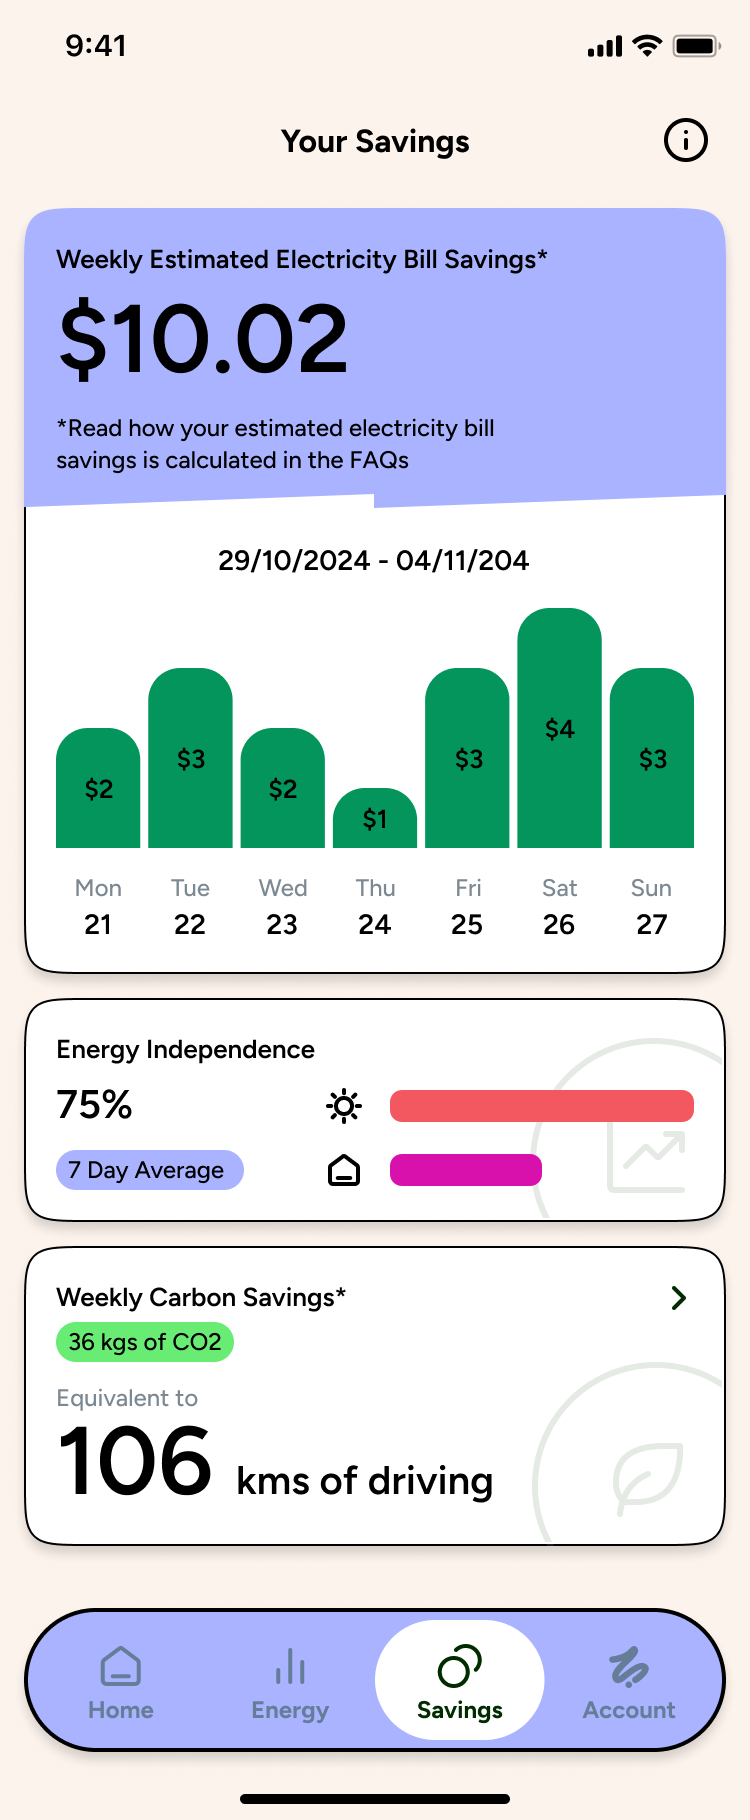
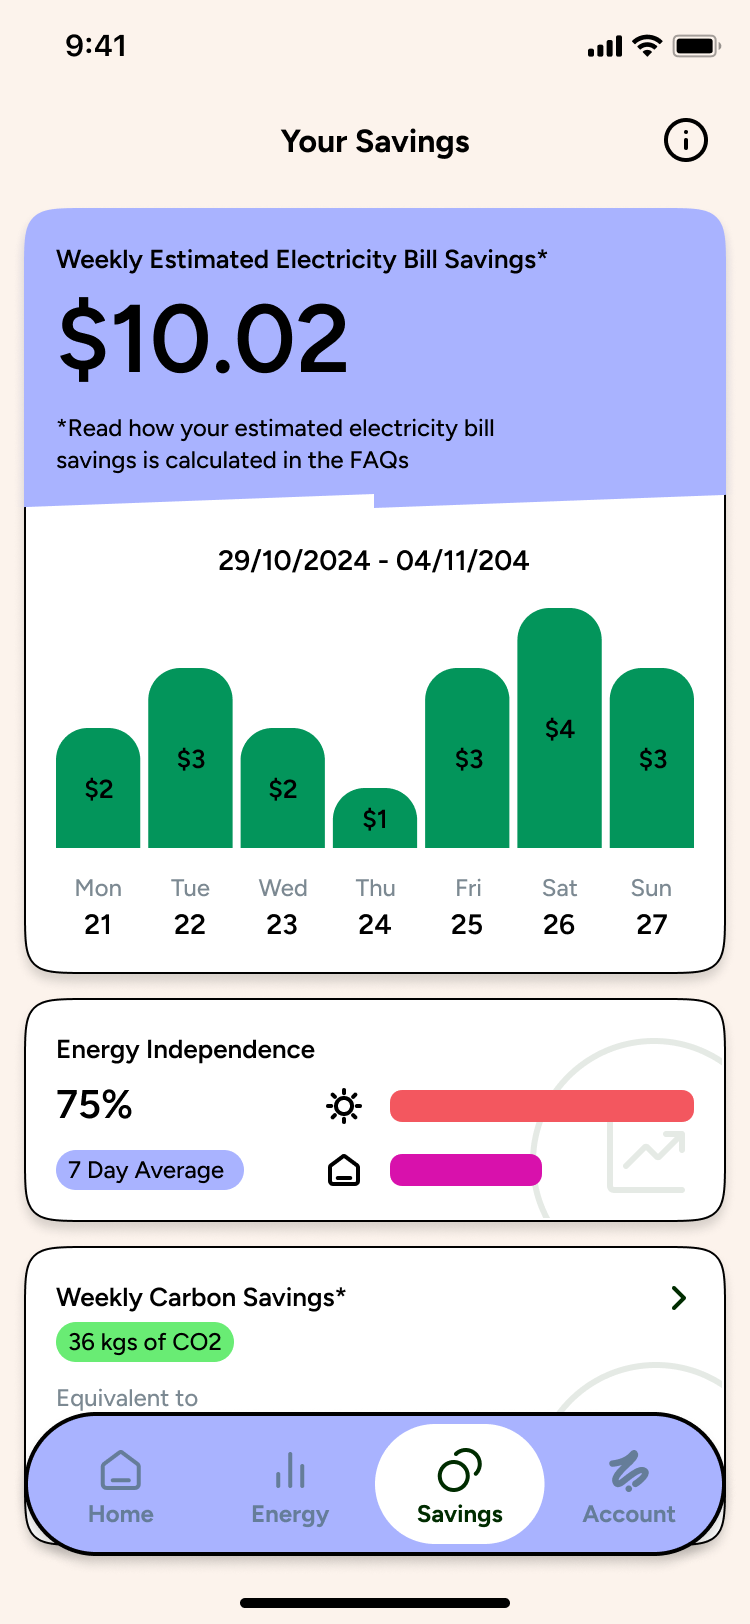
Remove intro strip, reduce em dashes across case studies
Removed the "still being designed" intro strip from the homepage.
Cleaned up em dashes across zelora-enreal, pooled, and discord case studies.

Changed region(s): [[0.0307, 0.0, 0.9813, 1.0], [0.092, 0.0, 0.1533, 0.0308], [0.7973, 0.0308, 0.828, 0.0616]]

diff --git a/pooled.html b/pooled.html
@@ -224,8 +224,8 @@
       <div id="overview" class="case-section reveal">
         <div class="case-section-label">Overview</div>
         <h2>Making pool safety legible for a Saturday morning check-in</h2>
-        <p>Pooled by Poolwerx is a smart pool management app for residential pool owners. It gives them real-time visibility into water chemistry, equipment status, and pool health — and lets them take action without picking up the phone.</p>
-        <p>The existing app was engineering-first — built for installers, not owners — and had aged. Working with Evergen's engineering team, I led research, UX, and visual design across the full product: the consumer app, the scheduling and automation flows, and a fleet management dashboard for Poolwerx operators.</p>
+        <p>Pooled by Poolwerx is a smart pool management app for residential pool owners. It gives them real-time visibility into water chemistry, equipment status, and pool health, and lets them take action without picking up the phone.</p>
+        <p>The existing app was engineering-first, built for installers rather than owners, and had aged. Working with Evergen's engineering team, I led research, UX, and visual design across the full product: the consumer app, the scheduling and automation flows, and a fleet management dashboard for Poolwerx operators.</p>
         <p>The design brief came down to a single user: a pool owner who opens the app on a Thursday, wants to know if the pool will be ready for the weekend, and shouldn't need to decode a technical dashboard to find out.</p>
         <div class="figure-row-3">
           <figure>
@@ -263,7 +263,7 @@
 
         <h3>Tolerances built around each pool, not a generic standard</h3>
         <p>Pool chemistry isn't universal. What's an acceptable pH in one pool may be out of range for another, depending on equipment, pool size, water type, and local conditions. Rather than showing static thresholds, the Water tab uses coloured range bars to show where each reading sits within the tolerance band set for that specific pool.</p>
-        <p>This required the backend to surface per-pool tolerances rather than raw sensor values — a more technically complex approach — but the right one. Telling a pool owner their pH is 7.2 means nothing without context. Showing them that 7.2 sits comfortably within their pool's acceptable range gives them the actual answer they came for.</p>
+        <p>This required the backend to surface per-pool tolerances rather than raw sensor values. More technically complex, but the right call. Telling a pool owner their pH is 7.2 means nothing without context. Showing them that 7.2 sits comfortably within their pool's acceptable range gives them the actual answer they came for.</p>
         <div class="figure-row">
           <figure>
             <img src="images/projects/pooledwater.png" alt="Water tab showing pH, ORP, Salinity and Temperature with coloured tolerance range bars" loading="lazy">
@@ -307,7 +307,7 @@
         <div class="case-section-label">The Dashboard</div>
         <h2>A completely different interface for a completely different user</h2>
         <p>Alongside the consumer app, I designed a fleet management dashboard for Poolwerx's operations team. While pool owners see one pool, operators manage hundreds — tracking water chemistry across multiple sites, identifying pools that need attention, and reviewing chemical history for individual accounts.</p>
-        <p>The contrast between the two interfaces was deliberate. The consumer app leads with urgency and simplicity because pool owners check in quickly and want a fast answer. The operator dashboard leads with data density and overview because technicians need to triage across a fleet, not find a single yes-or-no status. The same design approach — surface what matters first — plays out differently depending on who "matters" is for.</p>
+        <p>The contrast between the two interfaces was deliberate. The consumer app leads with urgency and simplicity because pool owners check in quickly and want a fast answer. The operator dashboard leads with data density and overview because technicians need to triage across a fleet, not find a single yes-or-no status. The same principle applies: surface what matters first. It just looks different depending on who the user is.</p>
         <div class="figure-row">
           <figure>
             <img src="images/projects/pooleddashboard.png" alt="Poolwerx operator fleet dashboard showing 250 pools, pH chart, health tracker and pool listings" loading="lazy">

diff --git a/discord-ios-widget.html b/discord-ios-widget.html
@@ -216,7 +216,7 @@
       <div id="overview" class="case-section reveal">
         <div class="case-section-label">Overview</div>
         <h2>Designing a widget that could have come from Discord's own team</h2>
-        <p>Discord had over 150 million monthly active users and no iOS widget. This was a personal project, built after leaving Creativemass — I've used Discord for years and genuinely love the product. The goal wasn't just to design a widget; it was to design one that could plausibly have come from Discord's own team. That was the hardest constraint: believability.</p>
+        <p>Discord had over 150 million monthly active users and no iOS widget. This was a personal project, built after leaving Creativemass. I've used Discord for years and genuinely love the product. The goal wasn't just to design a widget; it was to design one that could plausibly have come from Discord's own team. That was the hardest constraint: believability.</p>
         <figure>
           <img src="images/projects/discord-research.png" alt="Discord widget information architecture and feature research" loading="lazy">
           <figcaption>Information architecture and feature research</figcaption>
@@ -251,7 +251,7 @@
       <div id="outcome" class="case-section reveal">
         <div class="case-section-label">Outcome</div>
         <h2>Handover-ready, with room to grow</h2>
-        <p>The final designs are annotated and templated — the variation system is straightforward for engineers to build on. If I were to revisit this now, I'd push the personality further. Discord has evolved with custom themes, profile banners, and more visual expression since I built this. There's room for a widget that's genuinely expressive, not just functional.</p>
+        <p>The final designs are annotated and templated; the variation system is straightforward for engineers to build on. If I were to revisit this now, I'd push the personality further. Discord has evolved with custom themes, profile banners, and more visual expression since I built this. There's room for a widget that's genuinely expressive, not just functional.</p>
         <figure>
           <img src="images/projects/discord-final.png" alt="Discord widget final annotated designs" loading="lazy">
           <figcaption>Final designs — annotated and ready for handover</figcaption>

diff --git a/zelora-enreal.html b/zelora-enreal.html
@@ -203,7 +203,7 @@
           </div>
         </div>
         <h1 class="case-title">Zelora &amp; Enreal</h1>
-        <p class="case-tagline">Designing a consumer energy app — and the white-label system behind it — for two brands and thousands of solar and battery owners.</p>
+        <p class="case-tagline">Designing a consumer energy app and the white-label system behind it, for two brands and thousands of solar and battery owners.</p>
       </div>
       <div class="case-hero-image">
         <img src="images/projects/enrealzeloraheroshot.png" alt="Zelora and Enreal app screens showing home energy dashboard">
@@ -333,7 +333,7 @@
         <div class="case-section-label">Web Portal</div>
         <h2>A desktop companion built for longer sessions</h2>
         <p>The web portal was designed for the same users as the app, but in a desktop context where more screen real estate and a longer session changes how energy data should be presented. The dashboard surfaces historical charts, seven-day energy views, and detailed breakdowns — content that exists on mobile but is significantly more useful when a user can see it at full width across multiple panels simultaneously.</p>
-        <p>The telemetry charts in the portal are intentionally more detailed than the mobile equivalents. Desktop users who choose to open the portal are signalling a different intent to someone doing a quick home screen check — the interface reflects that. The portal launched alongside the mobile app, giving users access to both from day one.</p>
+        <p>The telemetry charts in the portal are intentionally more detailed than the mobile equivalents. Desktop users who choose to open the portal are signalling a different intent to someone doing a quick home screen check. The interface reflects that. The portal launched alongside the mobile app, giving users access to both from day one.</p>
         <div class="figure-row">
           <figure>
             <img src="images/projects/enrealweb-home.png" alt="Enreal web portal home dashboard showing energy overview" loading="lazy">

diff --git a/index.html b/index.html
@@ -608,15 +608,6 @@
     </div>
   </div>
 
-  <!-- INTRO STRIP -->
-  <div class="intro-strip">
-    <div class="intro-strip-inner">
-      <p class="intro-strip-text">
-        The energy and EV space is still being designed. I've spent the last three years inside it — and I'm not done yet.
-      </p>
-    </div>
-  </div>
-
   <!-- EXPERTISE -->
   <section id="expertise">
     <div class="section-wrap">
